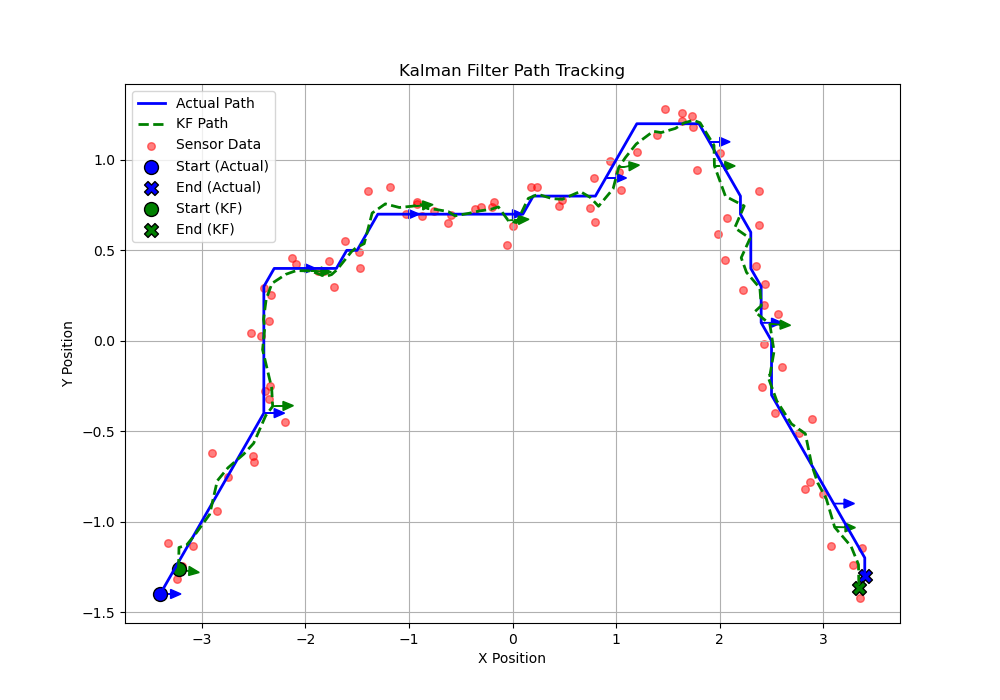
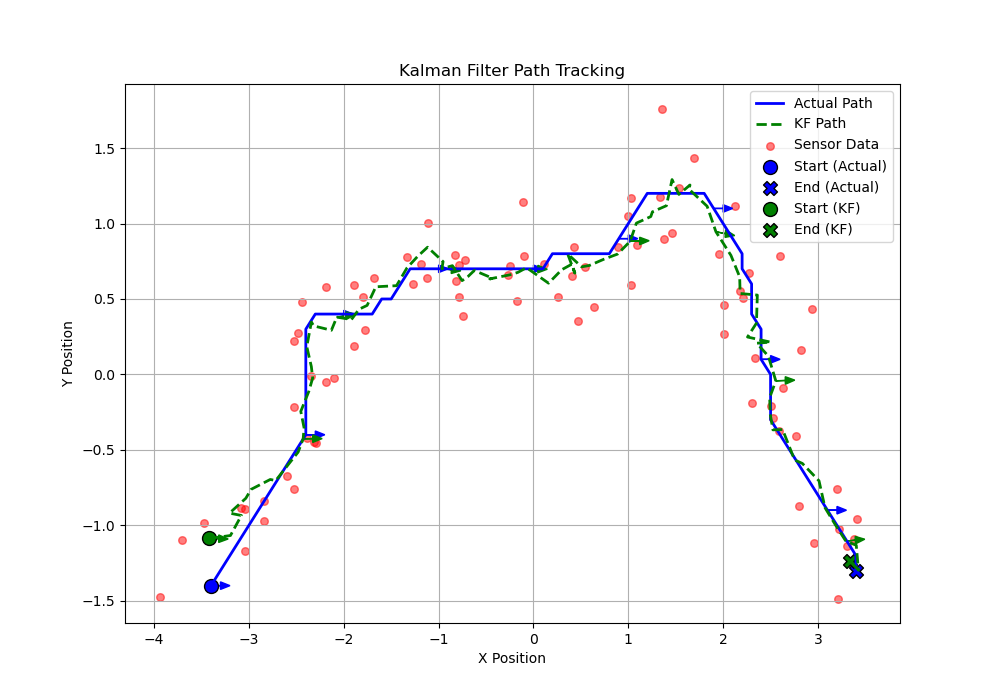
update - kf.py / ekf.py / pr2_models

diff --git a/kf.py b/kf.py
@@ -3,9 +3,9 @@ import numpy.linalg as la
 import matplotlib.pyplot as plt
 
 class KalmanFilter:
-    def __init__(self, A, B, C, R, Q, initial_state, initial_covariance):
+    def __init__(self, A, B_func, C, R, Q, initial_state, initial_covariance):
         self.A = A
-        self.B = B
+        self.B_func = B_func
         self.C = C
         self.R = R
         self.Q = Q
@@ -13,6 +13,8 @@ class KalmanFilter:
         self.covariance = initial_covariance
  
     def predict(self, control_input):
+        theta = self.state[2]
+        self.B = self.B_func(theta)
         self.state = np.dot(self.A, self.state) + np.dot(self.B, control_input)
         self.covariance = np.dot(np.dot(self.A, self.covariance), self.A.T) + self.Q
 
@@ -42,27 +44,32 @@ def read_path_from_file(file_path):
     return np.array(path) 
 
 # -- Simulate a location sensor with Guassian noise
-def location_sensor_measurements(true_state, sensor_noise):
+def location_sensor_measurements(true_state, sensor_noise_covariance):
     measured_positions = np.zeros_like(true_state)
     for i in range(true_state.shape[1]):
         x_true, y_true, theta_true = true_state[:, i]
-
-        # Generate noise for x, y, and theta separately
-        x_noise = np.random.normal(0, sensor_noise[0,0])
-        y_noise = np.random.normal(0, sensor_noise[1,1])
-        theta_noise = np.random.normal(0, sensor_noise[2,2])
-
-        # Calculate measured values with errors
-        measured_positions[0, i] = x_true + x_noise
-        measured_positions[1, i] = y_true + y_noise
-        measured_positions[2, i] = theta_true + theta_noise
+        
+        # Generate noise from multivariate normal distribution
+        noise = np.random.multivariate_normal([0, 0, 0], sensor_noise_covariance)
+        measured_positions[:, i] = [x_true, y_true, theta_true] + noise
     return measured_positions
+
+# -- Calculate error in rmse
+def calculate_rmse(estimated_states, true_states):
+    if estimated_states.shape != true_states.shape:
+        raise ValueError("The shapes of the estimated and true states must be the same.")
+    
+    squared_errors = (estimated_states - true_states) ** 2
+    mean_squared_errors = squared_errors.mean(axis=0)
+    rmse = np.sqrt(mean_squared_errors)
+    return rmse
 
 def main():
     # Read path from recorded data 
     true_state = read_path_from_file('path_maze.txt')
     x_true, y_true, theta_true = true_state
 
+    ################ Kalman Filter ################
     # KF initialization
     from pr2_models import A, B, C, R, Q
     initial_state = true_state[:,0]  # x_0: x, y, θ
@@ -75,6 +82,8 @@ def main():
 
     # Estimate the state of a pr2 robot
     kf_states = []
+    kf_states.append(initial_state)
+    
     for i in range(1, true_state.shape[1]):
         # control input
         dx = x_true[i] - x_true[i-1]
@@ -92,7 +101,11 @@ def main():
 
     kf_states = np.array(kf_states)
     
-    # Visualization
+    # Calculate error
+    rmse = calculate_rmse(kf_states, true_state.T)
+    print("KF RMSE: ", rmse)
+
+    ################ Visualization ################
     # Set the figure size
     plt.figure(figsize=(10, 7))
 

diff --git a/ekf.py b/ekf.py
@@ -1,13 +1,13 @@
 import numpy as np
 import numpy.linalg as la
 import matplotlib.pyplot as plt
-from kf import read_path_from_file
-from kf import location_sensor_measurements
+from kf import read_path_from_file, location_sensor_measurements, calculate_rmse
 
 class ExtendKalmanFilter:
-    def __init__(self, A, B, C, R, Q, initial_state, initial_covariance):
+    def __init__(self, A, B_func, G_func, C, R, Q, initial_state, initial_covariance):
         self.A = A
-        self.B = B
+        self.B_func = B_func
+        self.G_func = G_func
         self.C = C
         self.R = R
         self.Q = Q
@@ -15,8 +15,12 @@ class ExtendKalmanFilter:
         self.covariance = initial_covariance
  
     def predict(self, control_input):
+        theta = self.state[2]
+        self.B = self.B_func(theta)
         self.state = np.dot(self.A, self.state) + np.dot(self.B, control_input)
-        self.covariance = np.dot(np.dot(self.A, self.covariance), self.A.T) + self.Q
+
+        self.G = self.G_func(self.state, control_input)
+        self.covariance = np.dot(self.G, np.dot(self.covariance, self.G.T)) + self.Q
 
     def update(self, measurement):   
         K = np.dot(np.dot(self.covariance, self.C.T), 
@@ -32,11 +36,12 @@ def main():
     true_state = read_path_from_file('path_maze.txt')
     x_true, y_true, theta_true = true_state
 
-    # KF initialization
-    from pr2_models import A, B, C, R, Q
+    ################ Extend Kalman Filter ################
+    # EKF initialization
+    from pr2_models import A, B, G, C, R, Q
     initial_state = true_state[:,0]  # x_0: x, y, θ
     initial_covariance = np.eye(3)  # sigma_0: initial covarience
-    ekf = ExtendKalmanFilter(A, B, C, R, Q, initial_state, initial_covariance)
+    ekf = ExtendKalmanFilter(A, B, G, C, R, Q, initial_state, initial_covariance)
 
     # Generate location sensor measurements
     measured_state = location_sensor_measurements(true_state, Q)
@@ -44,6 +49,7 @@ def main():
 
     # Estimate the state of a pr2 robot
     ekf_states = []
+    ekf_states.append(initial_state)
     for i in range(1, true_state.shape[1]):
         # control input
         dx = x_true[i] - x_true[i-1]
@@ -57,7 +63,10 @@ def main():
 
     ekf_states = np.array(ekf_states)
     
-    # Visualization
+    # Calculate error
+    rmse = calculate_rmse(ekf_states, true_state.T)
+    print("EKF RMSE: ", rmse)
+    ################ Visualization ################
     # Set the figure size
     plt.figure(figsize=(10, 7))
 
@@ -67,7 +76,7 @@ def main():
     plt.scatter(x_measured, y_measured, color='r', s=30, label="Sensor Data", alpha=0.5)  
 
     # Add arrows to show orientation at selected points
-    arrow_skip = 10  # Number of points to skip between arrows
+    arrow_skip = 8  # Number of points to skip between arrows
     for i in range(0, len(theta_true), arrow_skip):
         plt.arrow(x_true[i], y_true[i], 
                   0.1 * np.cos(theta_true[i]), 0.1 * np.sin(theta_true[i]), 

diff --git a/pr2_models.py b/pr2_models.py
@@ -1,26 +1,29 @@
 import numpy as np
 
-################ linear model ################
+################ PR2 robot ################
 # A matrix - state matrix
 A = np.eye(3)
 
 # B matrix - control matrix
-B = np.eye(3)
+def B(theta):
+    B = np.array([[np.cos(theta), -np.sin(theta), 0], [np.sin(theta), np.cos(theta), 0], [0, 0, 1]])
+    return B
 
 # C matrix - observation matrix
 C = np.eye(3)
 
-################ non-linear model ################
+# G matrix - Jocobian matrix
+def G(state, control_input):
+    x, y, theta = state
+    dx, dy, dtheta = control_input
+    G = np.array([[1, 0, -dx * np.sin(theta) - dy * np.cos(theta)],
+                    [0, 1,  dx * np.cos(theta) - dy * np.sin(theta)],
+                    [0, 0,  1]])
+    return G
 
+# R matrix - motion noise covarience matrix (small covarience between x, y and theta)
+R = np.array([[0.5, 0.01, 0.01], [0.01, 0.5, 0.01], [0.01, 0.01, 0.5]])
 
+# Q matrix - sensor noise covarience matrix (2D lidar sensor + IMU)
+Q = np.array([[0.05, 0.001, 0], [0.001, 0.05, 0], [0, 0, 0.05]])
 
-
-
-
-
-################ Sensor parameter ################
-# R matrix - motion noise covarience matrix
-R = np.array([[0.5, 0, 0], [0, 0.5, 0], [0, 0, 0.5]])
-
-# Q matrix - sensor noise covarience matrix
-Q = np.array([[0.1, 0.01, 0.01], [0.01, 0.1, 0.01], [0.01, 0.01, 0.1]])
